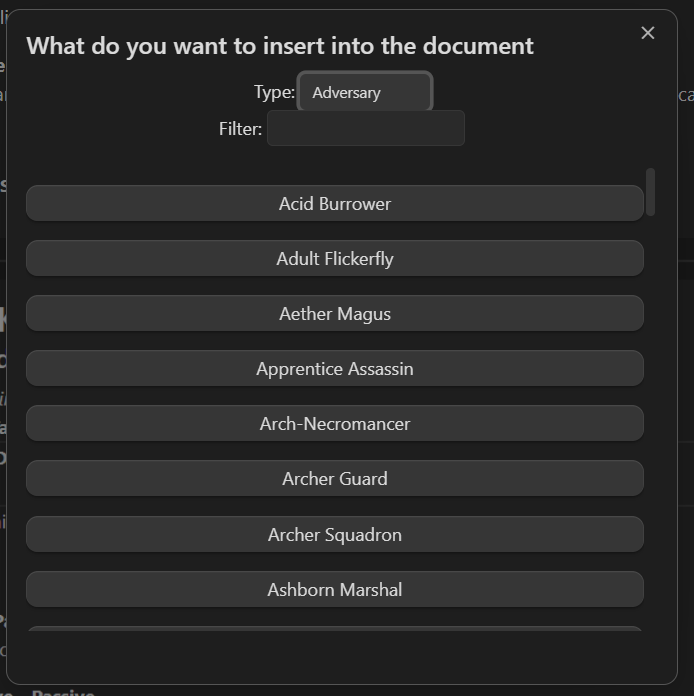
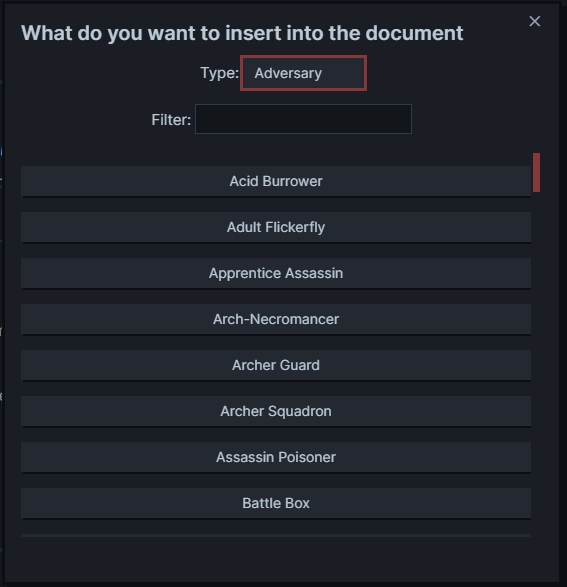
fix: updated styles on block insert modal to fix margin issue

diff --git a/src/view/daggerheart-select-form.svelte b/src/view/daggerheart-select-form.svelte
@@ -52,7 +52,7 @@
 <div class="dht-select-modal">
     <div class="form-group">
         <label for="selection">Type:</label>
-        <select bind:value={selectedType}>
+        <select class="dht-type-selector" bind:value={selectedType}>
             {#each objTypes as value}
                 <option {value}>{value}</option>
             {/each}

diff --git a/src/styles.scss b/src/styles.scss
@@ -299,4 +299,8 @@
     {
         content: none;
     }
+
+    .dht-type-selector {
+        margin-bottom: 1rem;
+    }
 }
